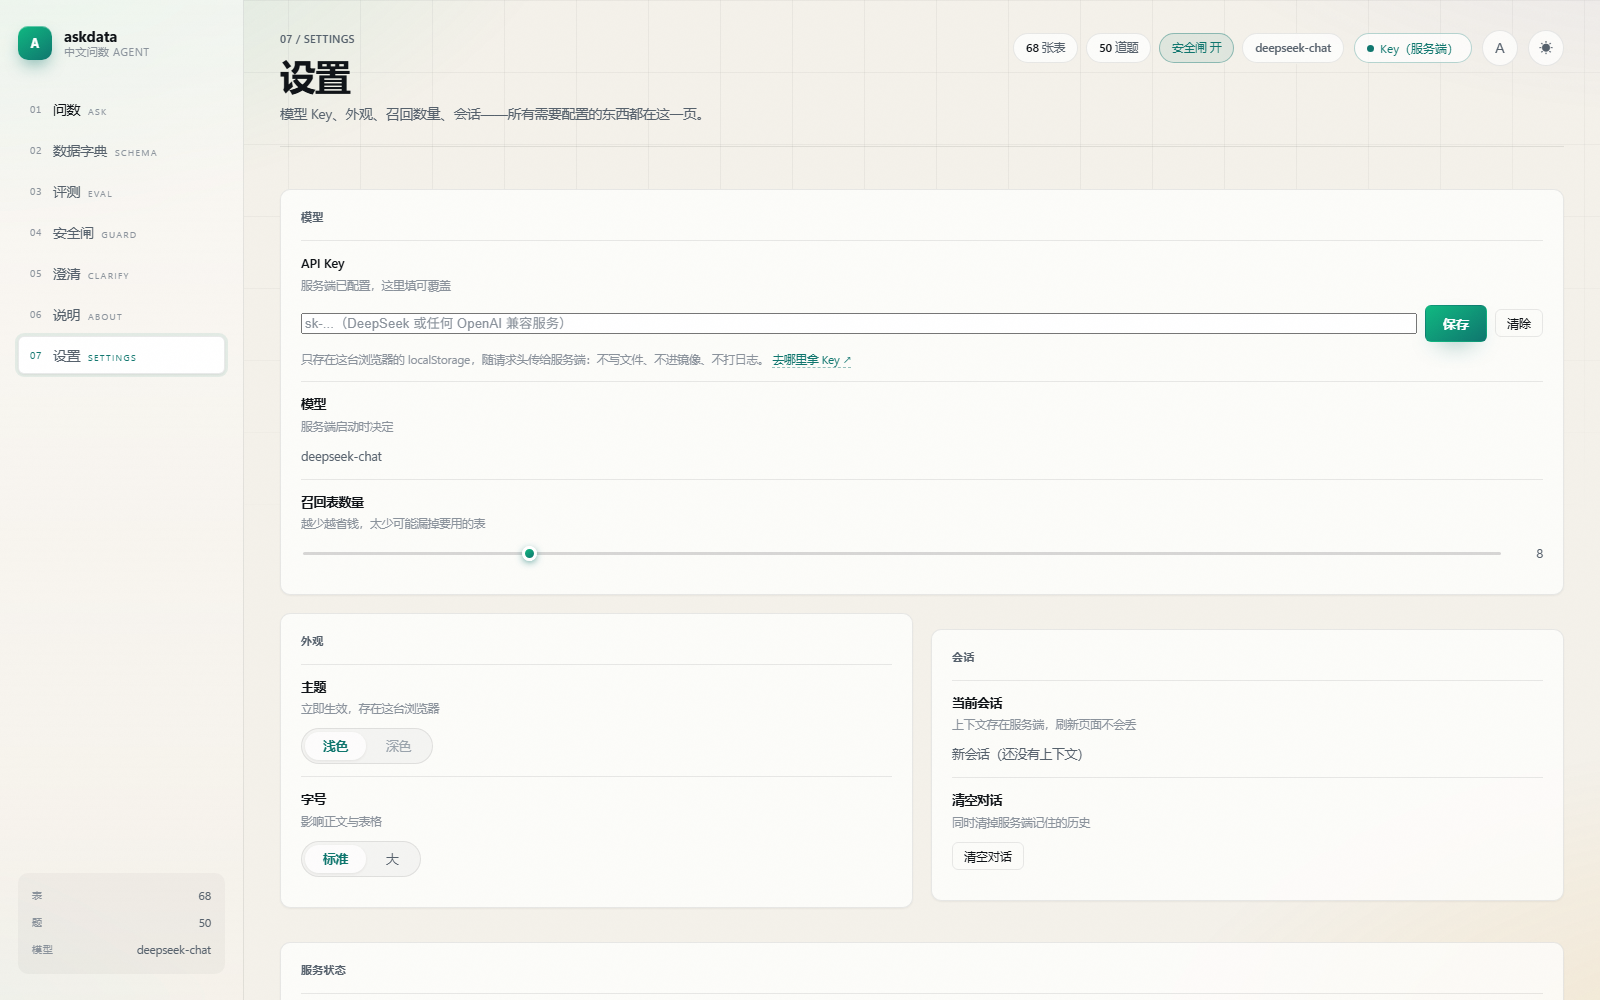
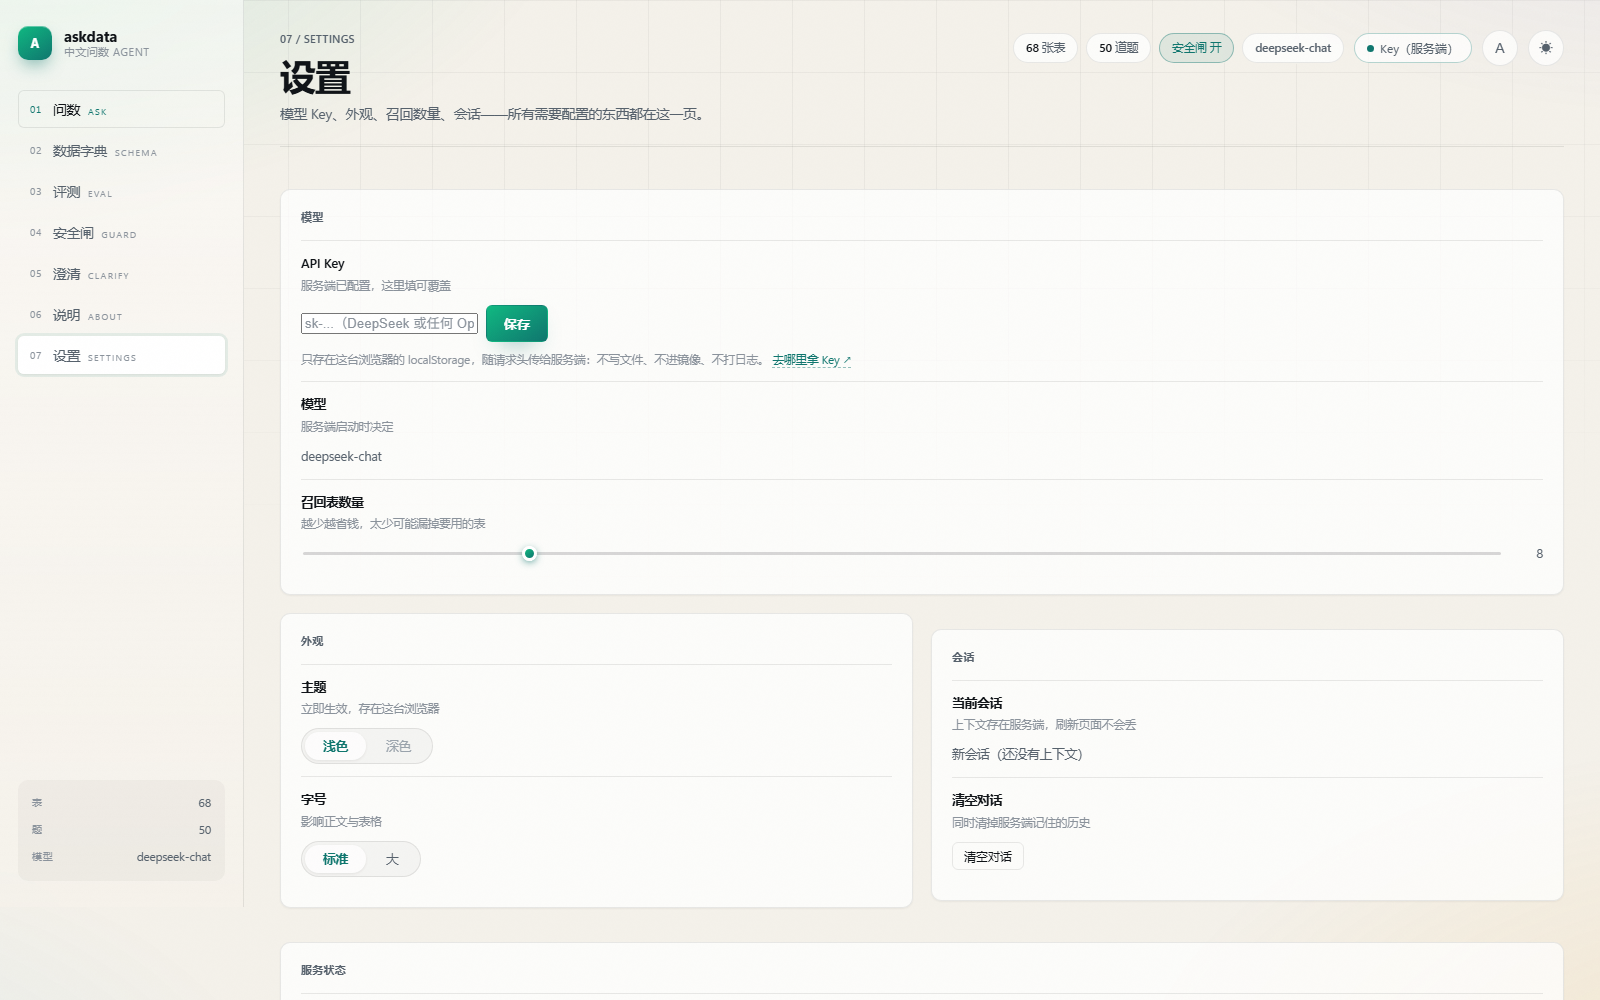
fix: 粘贴错内容时不再撑坏布局，并给出明确拒绝理由
有人把一整段页面文字粘进了 Key 输入框，我没有做任何格式校验，
于是脱敏显示成了「模型 API…要用的表」，还把卡片挤变形。

现在：
- checkApiKey 挡住 空值 / 含空白 / 非 ASCII / 太短 / 太长 / 不是 sk- 开头
- 保存失败会直接说原因，而不是默默存下来
- 启动时校验本地存的 Key，格式不对就自动清掉并提示
- 脱敏统一走 maskKey；标签说明和脱敏值都加了 overflow 收敛
前端验收补 6 条校验用例。

diff --git a/web/app.js b/web/app.js
@@ -223,6 +223,28 @@ async function api(path, options = {}) {
 
 /* ---------------- 模型 Key（状态 + 设置页联动） ---------------- */
 
+/* 模型密钥的格式检查。
+   这里挡的不是安全，是"粘错东西"：曾经有人把一整段页面文字粘进来，
+   结果脱敏显示成了「模型 API…要用的表」，还把布局撑坏。
+   Key 都是可见 ASCII、没有空白、长度有界——按这三条拒掉明显不对的输入。 */
+function checkApiKey(raw) {
+  const key = String(raw || "").trim();
+  if (!key) return { ok: false, reason: "Key 不能为空" };
+  if (/\s/.test(key)) return { ok: false, reason: "Key 里不能有空格或换行" };
+  if (!/^[\x21-\x7e]+$/.test(key)) return { ok: false, reason: "Key 只能包含可见的英文字符" };
+  if (key.length < 20) return { ok: false, reason: "太短了，看起来不像密钥" };
+  if (key.length > 200) return { ok: false, reason: "太长了，是不是粘错了东西" };
+  if (!key.startsWith("sk-")) return { ok: false, reason: "通常以 sk- 开头，确认一下" };
+  return { ok: true, key };
+}
+
+/* 脱敏：只露出头尾，长度不够就整段打码 */
+function maskKey(key) {
+  if (!key) return "—";
+  if (key.length <= 12) return "•".repeat(key.length);
+  return `${key.slice(0, 6)}…${key.slice(-4)}`;
+}
+
 /* 配置状态决定"要不要打扰用户"：
    没配 Key → 顶栏徽章醒目、页面顶部提示条出现、设置页说清怎么配
    配好了  → 全部收敛，只剩一个绿点 */
@@ -242,7 +264,7 @@ function refreshKeyState() {
     }
     chip.title = ready
       ? local
-        ? `已配置 ${state.apiKey.slice(0, 6)}…${state.apiKey.slice(-4)}（点击修改）`
+        ? `已配置 ${maskKey(state.apiKey)}（点击修改）`
         : "服务端已配置 API Key（点击可换成本地 Key）"
       : "还没有模型 API Key，提问会失败——点这里去设置";
   }
@@ -253,7 +275,7 @@ function refreshKeyState() {
   const keyState = $("#key-state");
   if (keyState) {
     keyState.textContent = local
-      ? `已配置 ${state.apiKey.slice(0, 6)}…${state.apiKey.slice(-4)}（浏览器本地）`
+      ? `已配置 ${maskKey(state.apiKey)}（浏览器本地）`
       : server
         ? "服务端已配置，这里填可覆盖"
         : "还没有配置，提问会失败";
@@ -266,7 +288,7 @@ function refreshKeyState() {
   if (saved) saved.hidden = editing;
   if (form) form.hidden = !editing;
   if (masked && local) {
-    masked.textContent = `${state.apiKey.slice(0, 6)}…${state.apiKey.slice(-4)}`;
+    masked.textContent = maskKey(state.apiKey);
   }
   const cancel = $("#key-cancel");
   if (cancel) {
@@ -340,11 +362,12 @@ function bindSettings() {
   }
 
   $("#set-key-save").onclick = () => {
-    const value = ($("#set-key-input").value || "").trim();
-    if (!value) {
-      toast("先填入 Key 再保存");
+    const checked = checkApiKey($("#set-key-input").value);
+    if (!checked.ok) {
+      toast(`保存失败：${checked.reason}`);
       return;
     }
+    const value = checked.key;
     state.apiKey = value;
     state.editingKey = false;
     localStorage.setItem("askdata-api-key", value);

diff --git a/scripts/frontend_audit.js b/scripts/frontend_audit.js
@@ -107,7 +107,7 @@ global.clearTimeout = () => {};
 let src = fs.readFileSync("web/app.js", "utf8");
 src += `\n;globalThis.__t = { renderAnswer, rankingList, lineChart, renderAttribution, classifyFailure,
   loadMultiturn, setupMultiturn, runCompare, setupCompare, ensureQuick, composeQuestion, state,
-  renderHints, highlightSQL, statusOf, mtReason, tablesOf, initTheme, setPage, appendAssistant, issuesHTML, updateSessionChip, emptyThreadHTML, refreshKeyState, renderSettings };`;
+  renderHints, highlightSQL, statusOf, mtReason, tablesOf, initTheme, setPage, appendAssistant, issuesHTML, updateSessionChip, emptyThreadHTML, refreshKeyState, renderSettings, checkApiKey, maskKey };`;
 eval(src);
 const T = globalThis.__t;
 
@@ -204,6 +204,14 @@ check("设置页 · 服务状态填好了", (els["#set-tables"].textContent || "
 check("设置页 · 会话轮数显示", (els["#set-session"].textContent || "").includes("2 轮"), els["#set-session"].textContent);
 check("设置页 · Key 状态有说明", Boolean(els["#key-state"].textContent));
 check("设置页 · 召回数量与状态同步", String(T.state.topK) === String(8));
+
+/* 粘错东西要被挡住 */
+check("Key 校验 · 空值被拒", T.checkApiKey("").ok === false);
+check("Key 校验 · 含空格被拒", T.checkApiKey("sk-abc def ghi jkl mno pqr").ok === false);
+check("Key 校验 · 中文被拒", T.checkApiKey("模型 API Key 已配置 这里应该放一串密钥").ok === false);
+check("Key 校验 · 太短被拒", T.checkApiKey("sk-123").ok === false);
+check("Key 校验 · 正常 Key 通过", T.checkApiKey("sk-" + "a".repeat(32)).ok === true);
+check("Key 脱敏 · 长 Key 只露头尾", T.maskKey("sk-b10f4c7e2a9d599b").includes("…"));
 
 /* 保存之后要显示脱敏的 Key，而不是空输入框 */
 T.state.apiKey = "sk-demo-b10f4c7e2a9d599b";

diff --git a/web/styles.css b/web/styles.css
@@ -1364,3 +1364,19 @@ html[data-scale="lg"] .topbar { position: sticky; }
 .key-form[hidden] { display: none; }
 .key-form input { flex: 1; min-width: 220px; }
 #key-cancel[hidden] { display: none; }
+
+/* 长文本不该把布局撑坏：标签说明和脱敏值都要能收敛 */
+.set-label em {
+  overflow-wrap: anywhere;
+  word-break: break-word;
+  max-width: 100%;
+}
+.key-saved code {
+  max-width: 46ch;
+  overflow: hidden;
+  text-overflow: ellipsis;
+  white-space: nowrap;
+  direction: ltr;
+}
+.set-key, .key-form { min-width: 0; }
+.set-key input { min-width: 0; }
